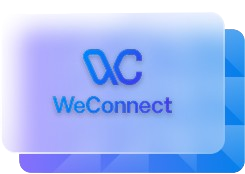
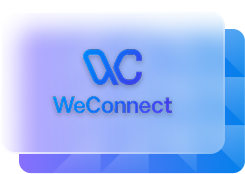
designing

diff --git a/src/styles/styles.css b/src/styles/styles.css
@@ -49,6 +49,7 @@ body {
     justify-content: center;
     gap: 1rem;
     margin-top: 1rem;
+    padding: 20px;
   }
   .social-icons img {
     width: 52px;
@@ -61,18 +62,19 @@ body {
   .section h2 {
     color: #2661e0;
     font-size: 18px;
+    font-weight: bold;
   }
 
   .box-glass {
     width: 292px; 
-    height: 400px;
-    background: rgba(255, 255, 255, 0.2); /* semi-transparent white */
-    backdrop-filter: blur(15px); /* blur behind */
-    -webkit-backdrop-filter: blur(15px); /* for Safari */
-    border-radius: 20px; /* rounded corners */
-    padding: 2rem; /* inside padding */
-    border: 1px solid rgba(255, 255, 255, 0.3); /* subtle border */
-    box-shadow: 0 4px 30px rgba(0, 0, 0, 0.1); /* optional soft shadow */
+    height: 410px;
+    background: rgba(255, 255, 255, 0.2); 
+    backdrop-filter: blur(15px); 
+    -webkit-backdrop-filter: blur(15px); 
+    border-radius: 20px; 
+    padding: 2rem; 
+    border: 1px solid rgba(255, 255, 255, 0.3); 
+    box-shadow: 0 4px 30px rgba(0, 0, 0, 0.1); 
   }
 
   .abouts p {
@@ -87,6 +89,7 @@ body {
   .abouts h2 {
     color: #2661e0;
     font-size: 18px;
+    font-weight: bold;
     text-align: left;
   }
 
@@ -94,13 +97,23 @@ body {
     justify-content: center;
   }
 
+  .prodtitle {
+    font-weight: bold;
+    font-size: 15px;
+  }
+
+  .prodcontent {
+    font-size: 11px;
+  }
   .products, .benefits {
     display: flex;
     flex-direction: column;
-    gap: 1rem;
+    gap: 47px;
     align-items: center;
+    padding: 30px
+
   }
-  .product, .benefit {
+ .benefit {
     background: #fff;
     border-radius: 12px;
     box-shadow: 0 2px 8px rgba(0,0,0,0.05);

diff --git a/index.html b/index.html
@@ -40,10 +40,19 @@
 
   <section class="section products">
     <h2>Products and Solution</h2>
-    <img src="src/assets/card.png" alt="card" class="card">
-    <div class="product-1">Smart Business Card - Tap-to-share digital contact cards.</div>
-    <div class="product-2">Enterprise Solutions - Scalable NFC tools for businesses and teams.</div>
-    <div class="product-3">NFC for Creators/Influencers - Personal branding with a single tap.</div>
+    <img src="src/assets/card.png" alt="card">
+    <div class="product">
+      <div class="prodtitle">Smart Business Card </div>
+      <div class="prodcontent">Tap-to-share digital contact cards.</div>
+    </div>
+    <div class="product">
+      <div class="prodtitle">Enterprise Solutions</div>
+      <div class="prodcontent">Scalable NFC tools for businesses and teams.</div> 
+    </div>
+    <div class="product">
+      <div class="prodtitle">NFC for Creators/Influencers </div>
+      <div class="prodcontent"> Personal branding with a single tap.</div>
+    </div>
   </section>
 
   <section class="section benefits">
